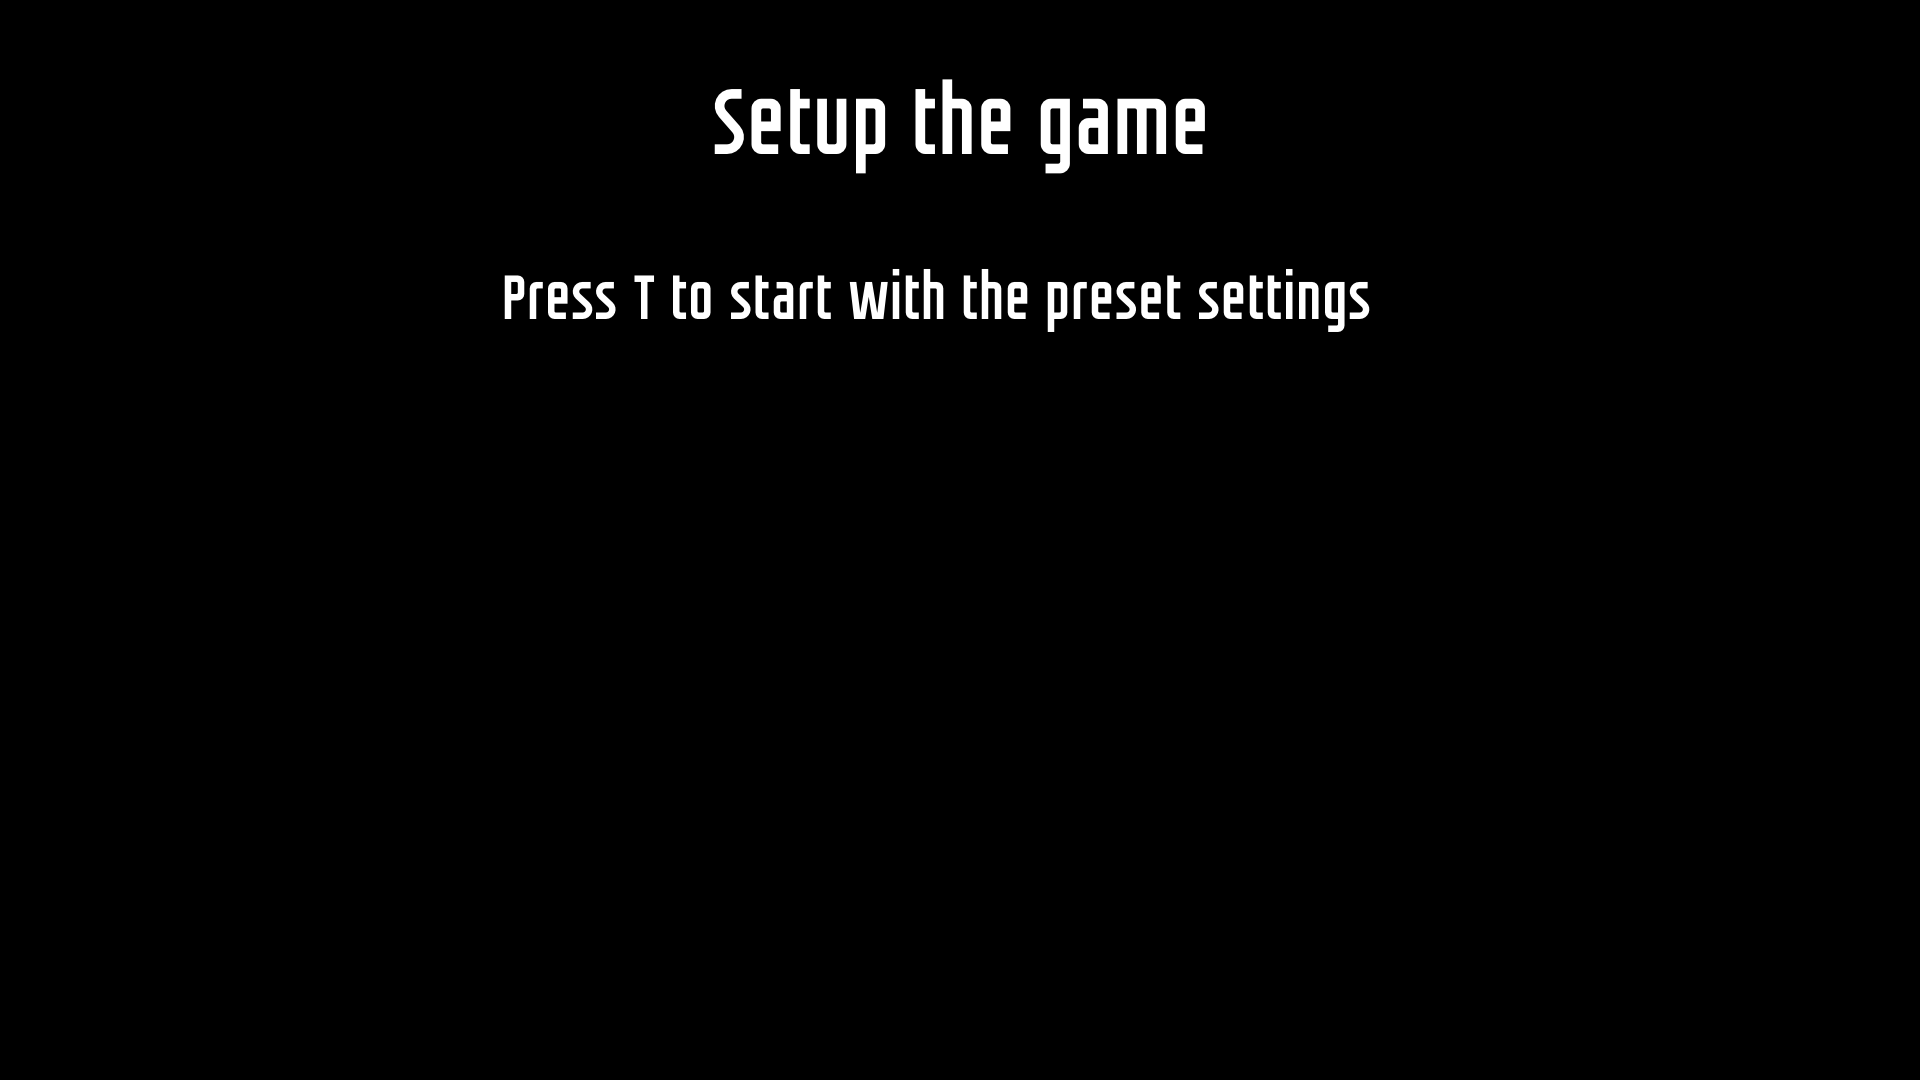
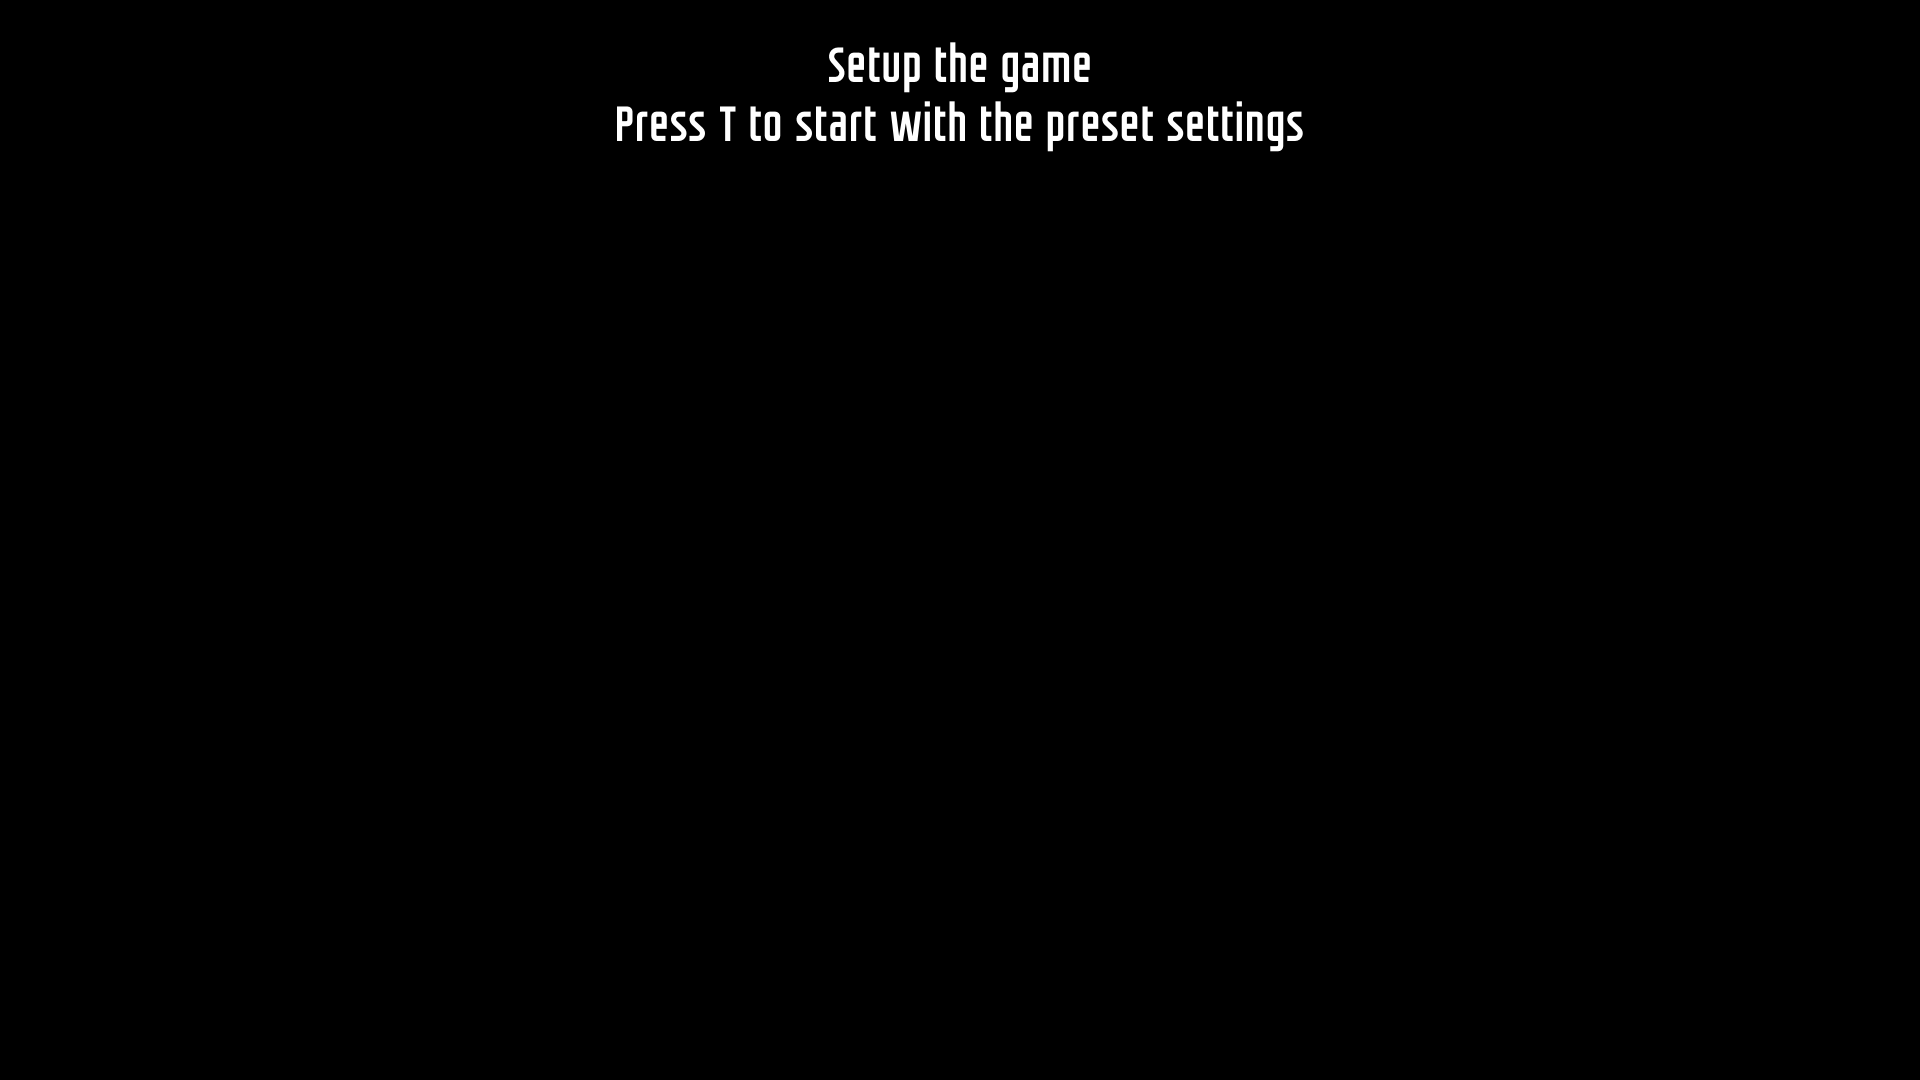
Skin buttons removes after picking, and map gets displayed  - Added enum SetupState (works like GameState for gamelogic)  - Now map appears after skin is chosen  - Temporary output for mouse X and Y when clicked  - Moved creation of filepaths for skins in Roborallygame class

Changed region(s): [[0.3125, 0.0306, 0.6875, 0.1833], [0.25, 0.2444, 0.7188, 0.3056]]

diff --git a/src/main/java/inf112/roborally/game/screens/SetupScreen.java b/src/main/java/inf112/roborally/game/screens/SetupScreen.java
@@ -10,11 +10,19 @@ import com.badlogic.gdx.scenes.scene2d.ui.ImageButton;
 import com.badlogic.gdx.scenes.scene2d.utils.ClickListener;
 import com.badlogic.gdx.scenes.scene2d.utils.TextureRegionDrawable;
 import inf112.roborally.game.RoboRallyGame;
+import inf112.roborally.game.enums.SetupState;
+
+import java.util.ArrayList;
 
 public class SetupScreen extends AbstractScreen {
     private Stage stage;
+    private String[] possibleFilepaths;
     private ImageButton[] skins;
-    private Sprite selectSkinText;
+    private SetupState state;
+
+    private ArrayList<Sprite> information;
+
+    // Player choices to be added to the game screen
     private int robotChoiceIndex;
 
     public SetupScreen(RoboRallyGame game, String[] possibleFilepaths) {
@@ -24,12 +32,23 @@ public class SetupScreen extends AbstractScreen {
         Gdx.input.setInputProcessor(stage);
 //        stage.addListener(game.cameraListener);
 
+        information = new ArrayList<>();
+        this.possibleFilepaths = possibleFilepaths;
+        
+        createSkinButtons();
+        state = SetupState.PICKINGSKIN;
+
+    }
+
+
+    private void createSkinButtons() {
         int nSkins = possibleFilepaths.length;
-        selectSkinText = new Sprite(new Texture("assets/img/selectskintext.png"));
+        Sprite selectSkinText = new Sprite(new Texture("assets/img/selectskintext.png"));
         selectSkinText.setPosition(Gdx.graphics.getWidth() / 2 + 125, 500);
+        information.add(selectSkinText);
 
         skins = new ImageButton[nSkins];
-
+        // Add all the buttons for the skins to the stage
         float scale = 0.4f;
         int x1 = 450; // The left x value
         int x2 = 1050; // The right x value
@@ -54,13 +73,24 @@ public class SetupScreen extends AbstractScreen {
             skin.addListener(new ClickListener() {
                 @Override
                 public void clicked(InputEvent event, float x, float y) {
-                    System.out.printf("Clicked skin %d%n", finalIndex+1);
+                    System.out.printf("You selected skin number %d!%n", finalIndex+1);
                     setRobotChoice(finalIndex);
                 }
             });
-
             stage.addActor(skin);
         }
+
+    }
+
+    private void createMapForPlacingFlags() {
+        state = SetupState.PLACINGFLAGS;
+        Sprite map = new Sprite(new Texture("assets/maps/vault.png"));
+        map.scale(1.0f);
+        // The positioning is a little bit off
+        map.setPosition(Gdx.graphics.getWidth() / 2 + map.getWidth()/2, Gdx.graphics.getHeight() / 2);
+        information.add(map);
+
+
     }
 
     @Override
@@ -70,14 +100,18 @@ public class SetupScreen extends AbstractScreen {
         batch.setProjectionMatrix(game.fixedCamera.combined);
         batch.begin();
         background.draw(batch);
-        selectSkinText.draw(batch);
+        for (Sprite sprite : information) {
+            sprite.draw(batch);
+        }
         batch.end();
         handleInput();
 
         stage.draw();
+
     }
 
     private void handleInput() {
+
 
         if(Gdx.input.isKeyJustPressed(Input.Keys.T)) {
             System.out.println("Key T pressed in SetupScreen, moving further");
@@ -86,6 +120,38 @@ public class SetupScreen extends AbstractScreen {
             dispose();
         }
 
+        switch (state) {
+            case PLACINGFLAGS:
+                if(Gdx.input.justTouched()) {
+                    System.out.printf("Mouse just pressed, at coordinates x = %d and y = %d",
+                            Gdx.input.getX(), Gdx.input.getY());
+                    System.out.print("\n");
+                }
+        }
+    }
+
+
+    private void setRobotChoice(int index) {
+        robotChoiceIndex = index;
+        System.out.println("The robot choice is robot at index " + index + "!");
+
+        // Remove the text and buttons:
+        // Currently only one information in the arraylist
+        information.remove(0);
+        for(ImageButton btn : skins) {
+            btn.remove();
+        }
+
+        // Now it's time to place the flags:
+        createMapForPlacingFlags();
+        
+    }
+
+    
+    private void createGameScreen() {
+        game.createGameScreen(robotChoiceIndex);
+        game.setScreen(game.gameScreen);
+        dispose();
     }
 
     @Override
@@ -93,13 +159,4 @@ public class SetupScreen extends AbstractScreen {
         super.dispose();
         stage.dispose();
     }
-
-    private void setRobotChoice(int index) {
-        robotChoiceIndex = index;
-        System.out.println("The robot choice is robot at index " + index + "!");
-        game.createGameScreen(robotChoiceIndex);
-        game.setScreen(game.gameScreen);
-        dispose();
-    }
-
 }

diff --git a/src/main/java/inf112/roborally/game/RoboRallyGame.java b/src/main/java/inf112/roborally/game/RoboRallyGame.java
@@ -53,20 +53,24 @@ public class RoboRallyGame extends Game {
 
         batch = new SpriteBatch();
 
+        createPossibleFilepaths();
+
+//        testScreen = new TestScreen(this);
+        menuScreen = new MenuScreen(this);
+        setupScreen = new SetupScreen(this, possibleRobotSkinFilepaths);
+//        gameScreen = new GameScreen(this, VAULT);
+        endGameScreen = new EndGameScreen(this);
+        setScreen(menuScreen);
+
+    }
+
+    private void createPossibleFilepaths() {
         nSkins = 4;
         possibleRobotSkinFilepaths = new String[nSkins];
         possibleRobotSkinFilepaths[0] = "assets/robot/bartenderclaptrap.png";
         possibleRobotSkinFilepaths[1] = "assets/robot/claptrapRefined.png";
         possibleRobotSkinFilepaths[2] = "assets/robot/butlerRefined.png";
         possibleRobotSkinFilepaths[3] = "assets/robot/claptrap3000.png";
-
-//        testScreen = new TestScreen(this);
-        setupScreen = new SetupScreen(this, possibleRobotSkinFilepaths);
-        menuScreen = new MenuScreen(this);
-//        gameScreen = new GameScreen(this, VAULT);
-        settingsScreen = new SettingsScreen(this);
-        endGameScreen = new EndGameScreen(this);
-        setScreen(menuScreen);
 
     }
 
@@ -79,6 +83,7 @@ public class RoboRallyGame extends Game {
         gameScreen = new GameScreen(this, VAULT, robotChoiceIndex);
     }
 
+
     public GameScreen getGameScreen() {
         return this.gameScreen;
     }
@@ -87,10 +92,15 @@ public class RoboRallyGame extends Game {
     public void dispose() {
         batch.dispose();
 //        testScreen.dispose();
+        menuScreen.dispose();
         // It might not been made yet
+        if (setupScreen != null) {
+            setupScreen.dispose();
+        }
+
         if(gameScreen != null) {
             gameScreen.dispose();
         }
-        menuScreen.dispose();
+
     }
 }

diff --git a/src/main/java/inf112/roborally/game/screens/MenuScreen.java b/src/main/java/inf112/roborally/game/screens/MenuScreen.java
@@ -72,10 +72,10 @@ public class MenuScreen implements Screen {
         else if (Gdx.input.isKeyJustPressed(Input.Keys.ESCAPE)) {
             Gdx.app.exit();
         }
-        else if (Gdx.input.isKeyJustPressed(Input.Keys.T)) {
-            roboRallyGame.setScreen(roboRallyGame.testScreen);
-            dispose();
-        }
+//        else if (Gdx.input.isKeyJustPressed(Input.Keys.T)) {
+//            roboRallyGame.setScreen(roboRallyGame.testScreen);
+//            dispose();
+//        }
     }
 
     @Override

diff --git a/src/main/java/inf112/roborally/game/enums/SetupState.java b/src/main/java/inf112/roborally/game/enums/SetupState.java
@@ -1,0 +1,6 @@
+package inf112.roborally.game.enums;
+
+public enum SetupState {
+    PICKINGSKIN,
+    PLACINGFLAGS
+}
